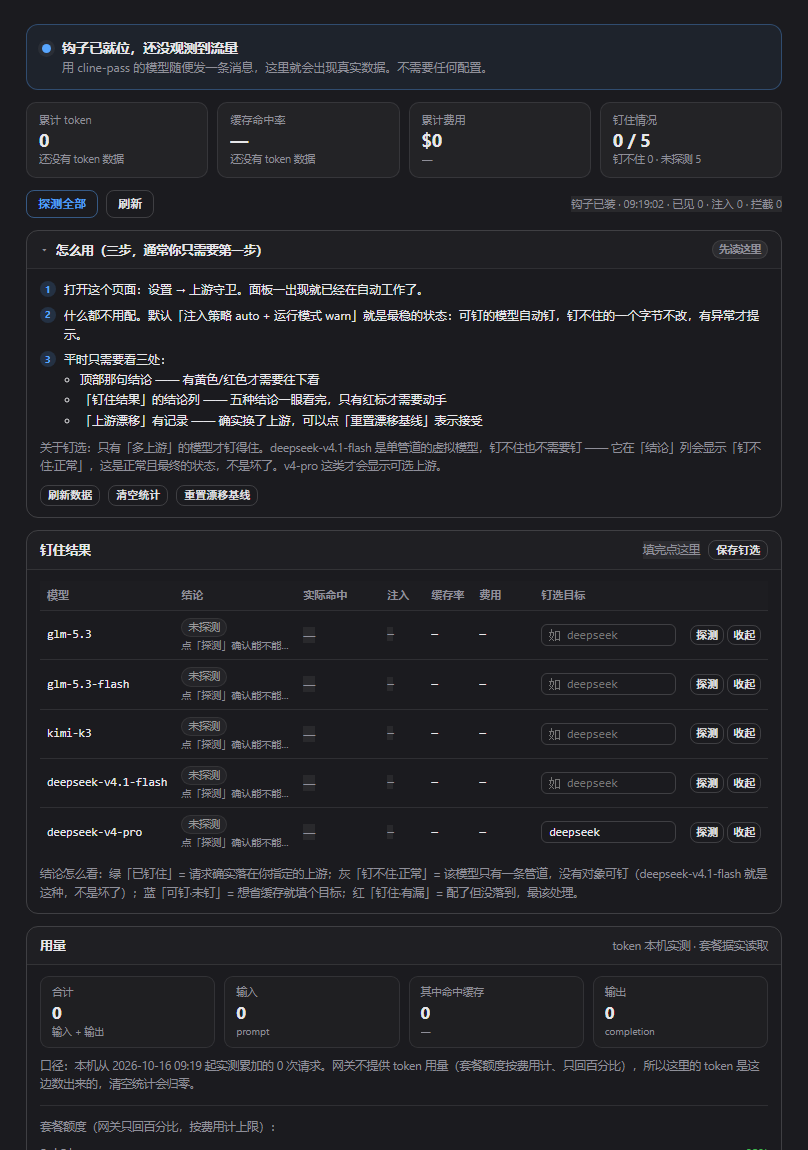
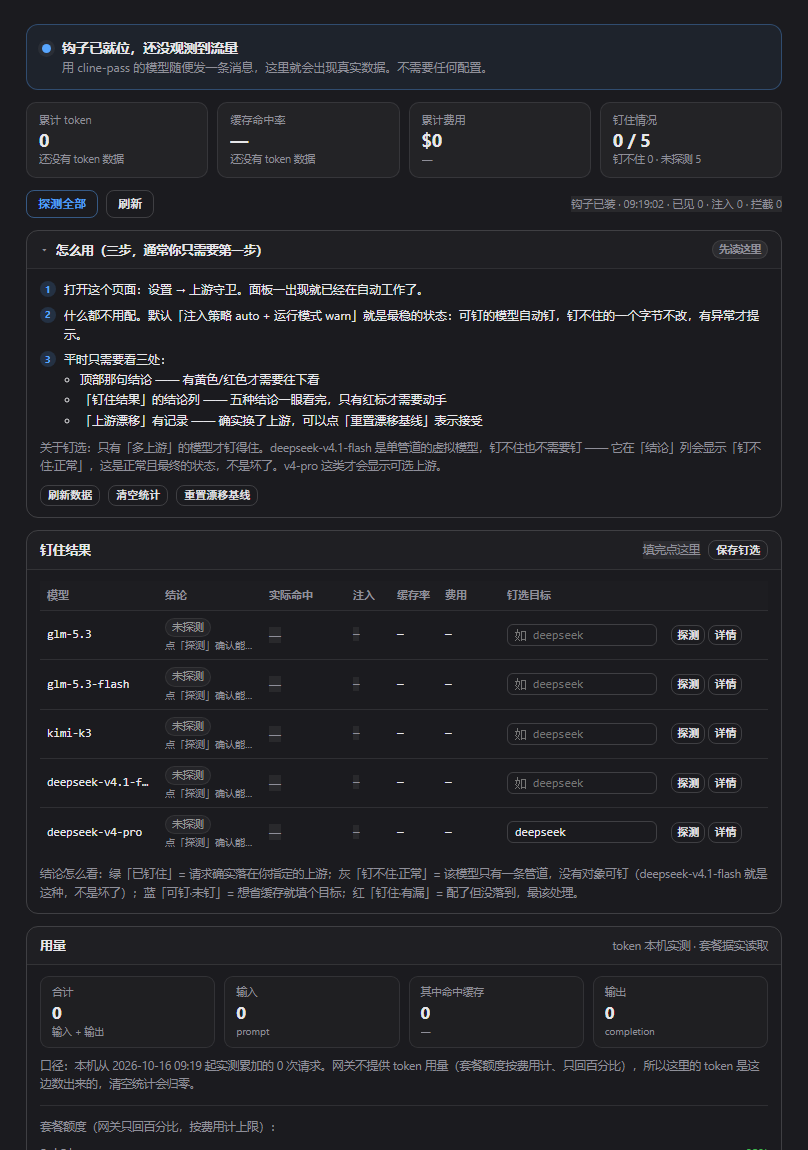
fix(ui): 详情就地展开在所属行下面，不再跳到面板末尾
- 以前详情卡排在「操作历史」之后，点表格第一行的「详情」要往下滚几百像素才看得到
- 改成 tbody 里紧跟该行的 cpg-detailrow（td colspan=8），点哪行就在哪行看
- 未探测过的模型点详情会直接提示「点本行探测」而不是什么都不显示
- 预览器补上 camelCase → HTML 属性映射：colSpan 之前被丢掉，导致详情单元格
  只占第一列、被挤成 1 个字宽（这是工具失真，不是产品 bug）

diff --git a/dist/native/client.js b/dist/native/client.js
@@ -109,10 +109,17 @@ window.__ModuleLoader__.load({
             '.cpg-tbl thead th{font-weight:600;font-size:11px;color:var(--dsw-alias-label-secondary,#8b8b8b);white-space:nowrap;border-bottom:1px solid var(--dsw-alias-border-tertiary,rgba(128,128,128,.2));background:rgba(128,128,128,.02)}',
             '.cpg-tbl tbody tr+tr td{border-top:1px solid var(--dsw-alias-border-tertiary,rgba(128,128,128,.13))}',
             '.cpg-tbl tbody tr:hover td{background:rgba(128,128,128,.035)}',
-            '.cpg-tbl-kv th{width:132px;font-weight:500;color:var(--dsw-alias-label-secondary,#8b8b8b);font-size:11.5px}',
+            '.cpg-detail{padding:0}',
+            // 就地展开的详情行：整行合并 8 列，用浅色背景 + 虚线顶边与数据行区分
+            '.cpg-detailrow>td{padding:0;background:rgba(120,140,200,.05);border-top:1px dashed var(--dsw-alias-border,rgba(255,255,255,.14))}',
+            '.cpg-detail .cpg-sec-b{padding:12px 13px}',
+            // 关键：父表用固定列宽。否则父表是自动列宽、内层 kv 表是 width:100%，
+            // 两者互为输入 → 内层表塌到最小内容宽度（1 个字符一行，长 slug 竖着排）。
+            '.cpg-tbl-pin{table-layout:fixed;width:100%}',
             // 详情卡的长值（16 个上游的列表、整段报错 JSON）必须换行，不能把表格撑出容器再被裁掉。
             // table-layout:fixed + overflow-wrap:anywhere 是这里的关键：自动列宽会按最长的不可断行片段撑开。
             '.cpg-tbl-kv{table-layout:fixed;width:100%}',
+            '.cpg-tbl-kv th{width:132px;font-weight:500;color:var(--dsw-alias-label-secondary,#8b8b8b);font-size:11.5px}',
             '.cpg-tbl-kv td{white-space:normal;word-break:break-word;overflow-wrap:anywhere;font-size:11.5px;line-height:1.55}',
             '.cpg-sub{font-size:10.5px;color:var(--dsw-alias-label-secondary,#8b8b8b);margin-top:1px}',
             '.cpg-sub-warn{color:#d29922}',
@@ -579,7 +586,7 @@ window.__ModuleLoader__.load({
                   ? h('div', { className: 'cpg-note' }, '没有读到模型清单（检查 profile 的 llm 配置）。')
                   : h('div', null,
                     h('div', { className: 'cpg-tscroll' },
-                      h('table', { className: 'cpg-tbl' },
+                      h('table', { className: 'cpg-tbl cpg-tbl-pin' },
                         h('thead', null, h('tr', null,
                           h('th', { style: { width: '118px' } }, '模型'),
                           h('th', { style: { width: '104px' } }, '结论'),
@@ -588,8 +595,8 @@ window.__ModuleLoader__.load({
                           h('th', { className: 'cpg-num', style: { width: '48px' } }, '缓存率'),
                           h('th', { className: 'cpg-num', style: { width: '62px' } }, '费用'),
                           h('th', null, '钉选目标'),
-                          h('th', { className: 'cpg-act' }, ''))),
-                        h('tbody', null, models.map((m) => {
+                          h('th', { className: 'cpg-act', style: { width: '104px' } }, ''))),
+                        h('tbody', null, models.reduce((acc, m) => {
                           const v = live.find((x) => x.model === m) || null
                           const c = capBy[m]
                           const p = probeBy[m]
@@ -605,7 +612,7 @@ window.__ModuleLoader__.load({
                           const slug = (v && v.lastSlug) || (p && p.canonicalSlug) || (b && b.canonicalSlug) || ''
                           const distKeys = v ? Object.keys(v.providers || {}) : []
                           const dist = distKeys.map((x) => x + '×' + v.providers[x]).join('  ')
-                          return h('tr', { key: m },
+                          acc.push(h('tr', { key: m },
                             h('td', null,
                               h('div', { className: 'cpg-name cpg-mono', title: m }, shortModel(m)),
                               slug ? h('div', { className: 'cpg-slug cpg-mono', title: slug }, slug) : null),
@@ -644,8 +651,21 @@ window.__ModuleLoader__.load({
                               ' ',
                               h('button', { className: 'cpg-btn cpg-btn-x', disabled: !!busy,
                                 onClick: () => setOpen(Object.assign({}, open, { [m]: !open[m] })) },
-                                open[m] ? '收起' : '详情')))
-                        })))),
+                                open[m] ? '收起' : '详情'))))
+                          // 详情就地展开在所属行下面：点哪行就在哪行看到，不需要滚动
+                          if (open[m]) {
+                            acc.push(h('tr', { key: m + '-detail', className: 'cpg-detailrow' },
+                              h('td', { colSpan: 8 },
+                                p
+                                  ? h(DetailCard, {
+                                    p, busy, compact: true,
+                                    onCache: () => run('guard.cache', { model: m, rounds: 2 }, '缓存 ' + m),
+                                  })
+                                  : h('div', { className: 'cpg-note', style: { padding: '11px 13px' } },
+                                    '这个模型还没探测过 —— 点本行的「探测」，才会知道它能不能钉、有哪些候选上游。'))))
+                          }
+                          return acc
+                        }, [])))),
                     h('div', { className: 'cpg-note cpg-note-b' },
                       '结论怎么看：绿「已钉住」= 请求确实落在你指定的上游；灰「钉不住·正常」= 该模型只有一条管道，' +
                       '没有对象可钉（deepseek-v4.1-flash 就是这种，不是坏了）；蓝「可钉·未钉」= 想省缓存就填个目标；' +
@@ -701,11 +721,9 @@ window.__ModuleLoader__.load({
       
               ),
       
-              // ── 详情 ──
-              (st.probes || []).filter((p) => open[p.model]).map((p) => h(DetailCard, {
-                key: 'd-' + p.model, p, busy,
-                onCache: () => run('guard.cache', { model: p.model, rounds: 2 }, '缓存 ' + p.model),
-              })),
+              // ── 详情不再单独渲染在面板末尾 ──
+              // 以前详情卡排在「操作历史」之后，点表格第一行的「详情」要往下滚好几百像素才看得到，
+              // 用户根本不知道点了到底发生了什么。现在改成就地展开在那一行下面（见上方 tbody）。
       
               // ── 操作历史 ──
               (st.history || []).length
@@ -746,12 +764,21 @@ window.__ModuleLoader__.load({
             if (p.vendorCache) kv('厂商侧缓存 hit/miss', p.vendorCache.hit + ' / ' + p.vendorCache.miss)
             kv('候选上游', p.availableProviders && p.availableProviders.length ? p.availableProviders.join(', ') : null)
       
-            return h('div', { className: 'cpg-sec' },
-              h('div', { className: 'cpg-sec-h' },
-                h('div', { className: 'cpg-sec-t' }, '探测详情：' + shortModel(p.model)),
-                h('div', { className: 'cpg-sec-m' },
-                  (p.pinHonored === true ? pill('可钉', 'ok') : (p.pinHonored === false ? pill('钉不动', 'dim') : pill('未知', 'dim'))))),
+            // compact：就地展开时不再重复标题栏（模型名上一行就有），只保留结论 pill
+            const pinBadge = p.pinHonored === true
+              ? pill('可钉', 'ok')
+              : pill(p.pinHonored === false ? '钉不动' : '未知', 'dim')
+            const head = props.compact ? null : h('div', { className: 'cpg-sec-h' },
+              h('div', { className: 'cpg-sec-t' }, '探测详情：' + shortModel(p.model)),
+              h('div', { className: 'cpg-sec-m' }, pinBadge))
+            return h('div', { className: props.compact ? 'cpg-detail' : 'cpg-sec' },
+              head,
               h('div', { className: 'cpg-sec-b' },
+                props.compact
+                  ? h('div', { className: 'cpg-note', style: { marginBottom: '8px' } },
+                    '探测结论：' + (p.pinHonored === true ? '可钉' : (p.pinHonored === false ? '钉不动（单一管道）' : '未知')) +
+                    (p.probedAt ? ' · ' + String(p.probedAt).slice(11, 19) : ''))
+                  : null,
                 p.error ? h('div', { className: 'cpg-err', style: { marginBottom: '8px' } }, '错误：' + p.error) : null,
                 p.note ? h('div', { className: 'cpg-note', style: { marginBottom: '8px' } }, '提示：' + p.note) : null,
                 h('table', { className: 'cpg-tbl cpg-tbl-kv' }, h('tbody', null, rows)),

diff --git a/src/dynamic/client.js b/src/dynamic/client.js
@@ -69,10 +69,17 @@ return {
       '.cpg-tbl thead th{font-weight:600;font-size:11px;color:var(--dsw-alias-label-secondary,#8b8b8b);white-space:nowrap;border-bottom:1px solid var(--dsw-alias-border-tertiary,rgba(128,128,128,.2));background:rgba(128,128,128,.02)}',
       '.cpg-tbl tbody tr+tr td{border-top:1px solid var(--dsw-alias-border-tertiary,rgba(128,128,128,.13))}',
       '.cpg-tbl tbody tr:hover td{background:rgba(128,128,128,.035)}',
-      '.cpg-tbl-kv th{width:132px;font-weight:500;color:var(--dsw-alias-label-secondary,#8b8b8b);font-size:11.5px}',
+      '.cpg-detail{padding:0}',
+      // 就地展开的详情行：整行合并 8 列，用浅色背景 + 虚线顶边与数据行区分
+      '.cpg-detailrow>td{padding:0;background:rgba(120,140,200,.05);border-top:1px dashed var(--dsw-alias-border,rgba(255,255,255,.14))}',
+      '.cpg-detail .cpg-sec-b{padding:12px 13px}',
+      // 关键：父表用固定列宽。否则父表是自动列宽、内层 kv 表是 width:100%，
+      // 两者互为输入 → 内层表塌到最小内容宽度（1 个字符一行，长 slug 竖着排）。
+      '.cpg-tbl-pin{table-layout:fixed;width:100%}',
       // 详情卡的长值（16 个上游的列表、整段报错 JSON）必须换行，不能把表格撑出容器再被裁掉。
       // table-layout:fixed + overflow-wrap:anywhere 是这里的关键：自动列宽会按最长的不可断行片段撑开。
       '.cpg-tbl-kv{table-layout:fixed;width:100%}',
+      '.cpg-tbl-kv th{width:132px;font-weight:500;color:var(--dsw-alias-label-secondary,#8b8b8b);font-size:11.5px}',
       '.cpg-tbl-kv td{white-space:normal;word-break:break-word;overflow-wrap:anywhere;font-size:11.5px;line-height:1.55}',
       '.cpg-sub{font-size:10.5px;color:var(--dsw-alias-label-secondary,#8b8b8b);margin-top:1px}',
       '.cpg-sub-warn{color:#d29922}',
@@ -539,7 +546,7 @@ return {
             ? h('div', { className: 'cpg-note' }, '没有读到模型清单（检查 profile 的 llm 配置）。')
             : h('div', null,
               h('div', { className: 'cpg-tscroll' },
-                h('table', { className: 'cpg-tbl' },
+                h('table', { className: 'cpg-tbl cpg-tbl-pin' },
                   h('thead', null, h('tr', null,
                     h('th', { style: { width: '118px' } }, '模型'),
                     h('th', { style: { width: '104px' } }, '结论'),
@@ -548,8 +555,8 @@ return {
                     h('th', { className: 'cpg-num', style: { width: '48px' } }, '缓存率'),
                     h('th', { className: 'cpg-num', style: { width: '62px' } }, '费用'),
                     h('th', null, '钉选目标'),
-                    h('th', { className: 'cpg-act' }, ''))),
-                  h('tbody', null, models.map((m) => {
+                    h('th', { className: 'cpg-act', style: { width: '104px' } }, ''))),
+                  h('tbody', null, models.reduce((acc, m) => {
                     const v = live.find((x) => x.model === m) || null
                     const c = capBy[m]
                     const p = probeBy[m]
@@ -565,7 +572,7 @@ return {
                     const slug = (v && v.lastSlug) || (p && p.canonicalSlug) || (b && b.canonicalSlug) || ''
                     const distKeys = v ? Object.keys(v.providers || {}) : []
                     const dist = distKeys.map((x) => x + '×' + v.providers[x]).join('  ')
-                    return h('tr', { key: m },
+                    acc.push(h('tr', { key: m },
                       h('td', null,
                         h('div', { className: 'cpg-name cpg-mono', title: m }, shortModel(m)),
                         slug ? h('div', { className: 'cpg-slug cpg-mono', title: slug }, slug) : null),
@@ -604,8 +611,21 @@ return {
                         ' ',
                         h('button', { className: 'cpg-btn cpg-btn-x', disabled: !!busy,
                           onClick: () => setOpen(Object.assign({}, open, { [m]: !open[m] })) },
-                          open[m] ? '收起' : '详情')))
-                  })))),
+                          open[m] ? '收起' : '详情'))))
+                    // 详情就地展开在所属行下面：点哪行就在哪行看到，不需要滚动
+                    if (open[m]) {
+                      acc.push(h('tr', { key: m + '-detail', className: 'cpg-detailrow' },
+                        h('td', { colSpan: 8 },
+                          p
+                            ? h(DetailCard, {
+                              p, busy, compact: true,
+                              onCache: () => run('guard.cache', { model: m, rounds: 2 }, '缓存 ' + m),
+                            })
+                            : h('div', { className: 'cpg-note', style: { padding: '11px 13px' } },
+                              '这个模型还没探测过 —— 点本行的「探测」，才会知道它能不能钉、有哪些候选上游。'))))
+                    }
+                    return acc
+                  }, [])))),
               h('div', { className: 'cpg-note cpg-note-b' },
                 '结论怎么看：绿「已钉住」= 请求确实落在你指定的上游；灰「钉不住·正常」= 该模型只有一条管道，' +
                 '没有对象可钉（deepseek-v4.1-flash 就是这种，不是坏了）；蓝「可钉·未钉」= 想省缓存就填个目标；' +
@@ -661,11 +681,9 @@ return {
 
         ),
 
-        // ── 详情 ──
-        (st.probes || []).filter((p) => open[p.model]).map((p) => h(DetailCard, {
-          key: 'd-' + p.model, p, busy,
-          onCache: () => run('guard.cache', { model: p.model, rounds: 2 }, '缓存 ' + p.model),
-        })),
+        // ── 详情不再单独渲染在面板末尾 ──
+        // 以前详情卡排在「操作历史」之后，点表格第一行的「详情」要往下滚好几百像素才看得到，
+        // 用户根本不知道点了到底发生了什么。现在改成就地展开在那一行下面（见上方 tbody）。
 
         // ── 操作历史 ──
         (st.history || []).length
@@ -706,12 +724,21 @@ return {
       if (p.vendorCache) kv('厂商侧缓存 hit/miss', p.vendorCache.hit + ' / ' + p.vendorCache.miss)
       kv('候选上游', p.availableProviders && p.availableProviders.length ? p.availableProviders.join(', ') : null)
 
-      return h('div', { className: 'cpg-sec' },
-        h('div', { className: 'cpg-sec-h' },
-          h('div', { className: 'cpg-sec-t' }, '探测详情：' + shortModel(p.model)),
-          h('div', { className: 'cpg-sec-m' },
-            (p.pinHonored === true ? pill('可钉', 'ok') : (p.pinHonored === false ? pill('钉不动', 'dim') : pill('未知', 'dim'))))),
+      // compact：就地展开时不再重复标题栏（模型名上一行就有），只保留结论 pill
+      const pinBadge = p.pinHonored === true
+        ? pill('可钉', 'ok')
+        : pill(p.pinHonored === false ? '钉不动' : '未知', 'dim')
+      const head = props.compact ? null : h('div', { className: 'cpg-sec-h' },
+        h('div', { className: 'cpg-sec-t' }, '探测详情：' + shortModel(p.model)),
+        h('div', { className: 'cpg-sec-m' }, pinBadge))
+      return h('div', { className: props.compact ? 'cpg-detail' : 'cpg-sec' },
+        head,
         h('div', { className: 'cpg-sec-b' },
+          props.compact
+            ? h('div', { className: 'cpg-note', style: { marginBottom: '8px' } },
+              '探测结论：' + (p.pinHonored === true ? '可钉' : (p.pinHonored === false ? '钉不动（单一管道）' : '未知')) +
+              (p.probedAt ? ' · ' + String(p.probedAt).slice(11, 19) : ''))
+            : null,
           p.error ? h('div', { className: 'cpg-err', style: { marginBottom: '8px' } }, '错误：' + p.error) : null,
           p.note ? h('div', { className: 'cpg-note', style: { marginBottom: '8px' } }, '提示：' + p.note) : null,
           h('table', { className: 'cpg-tbl cpg-tbl-kv' }, h('tbody', null, rows)),
